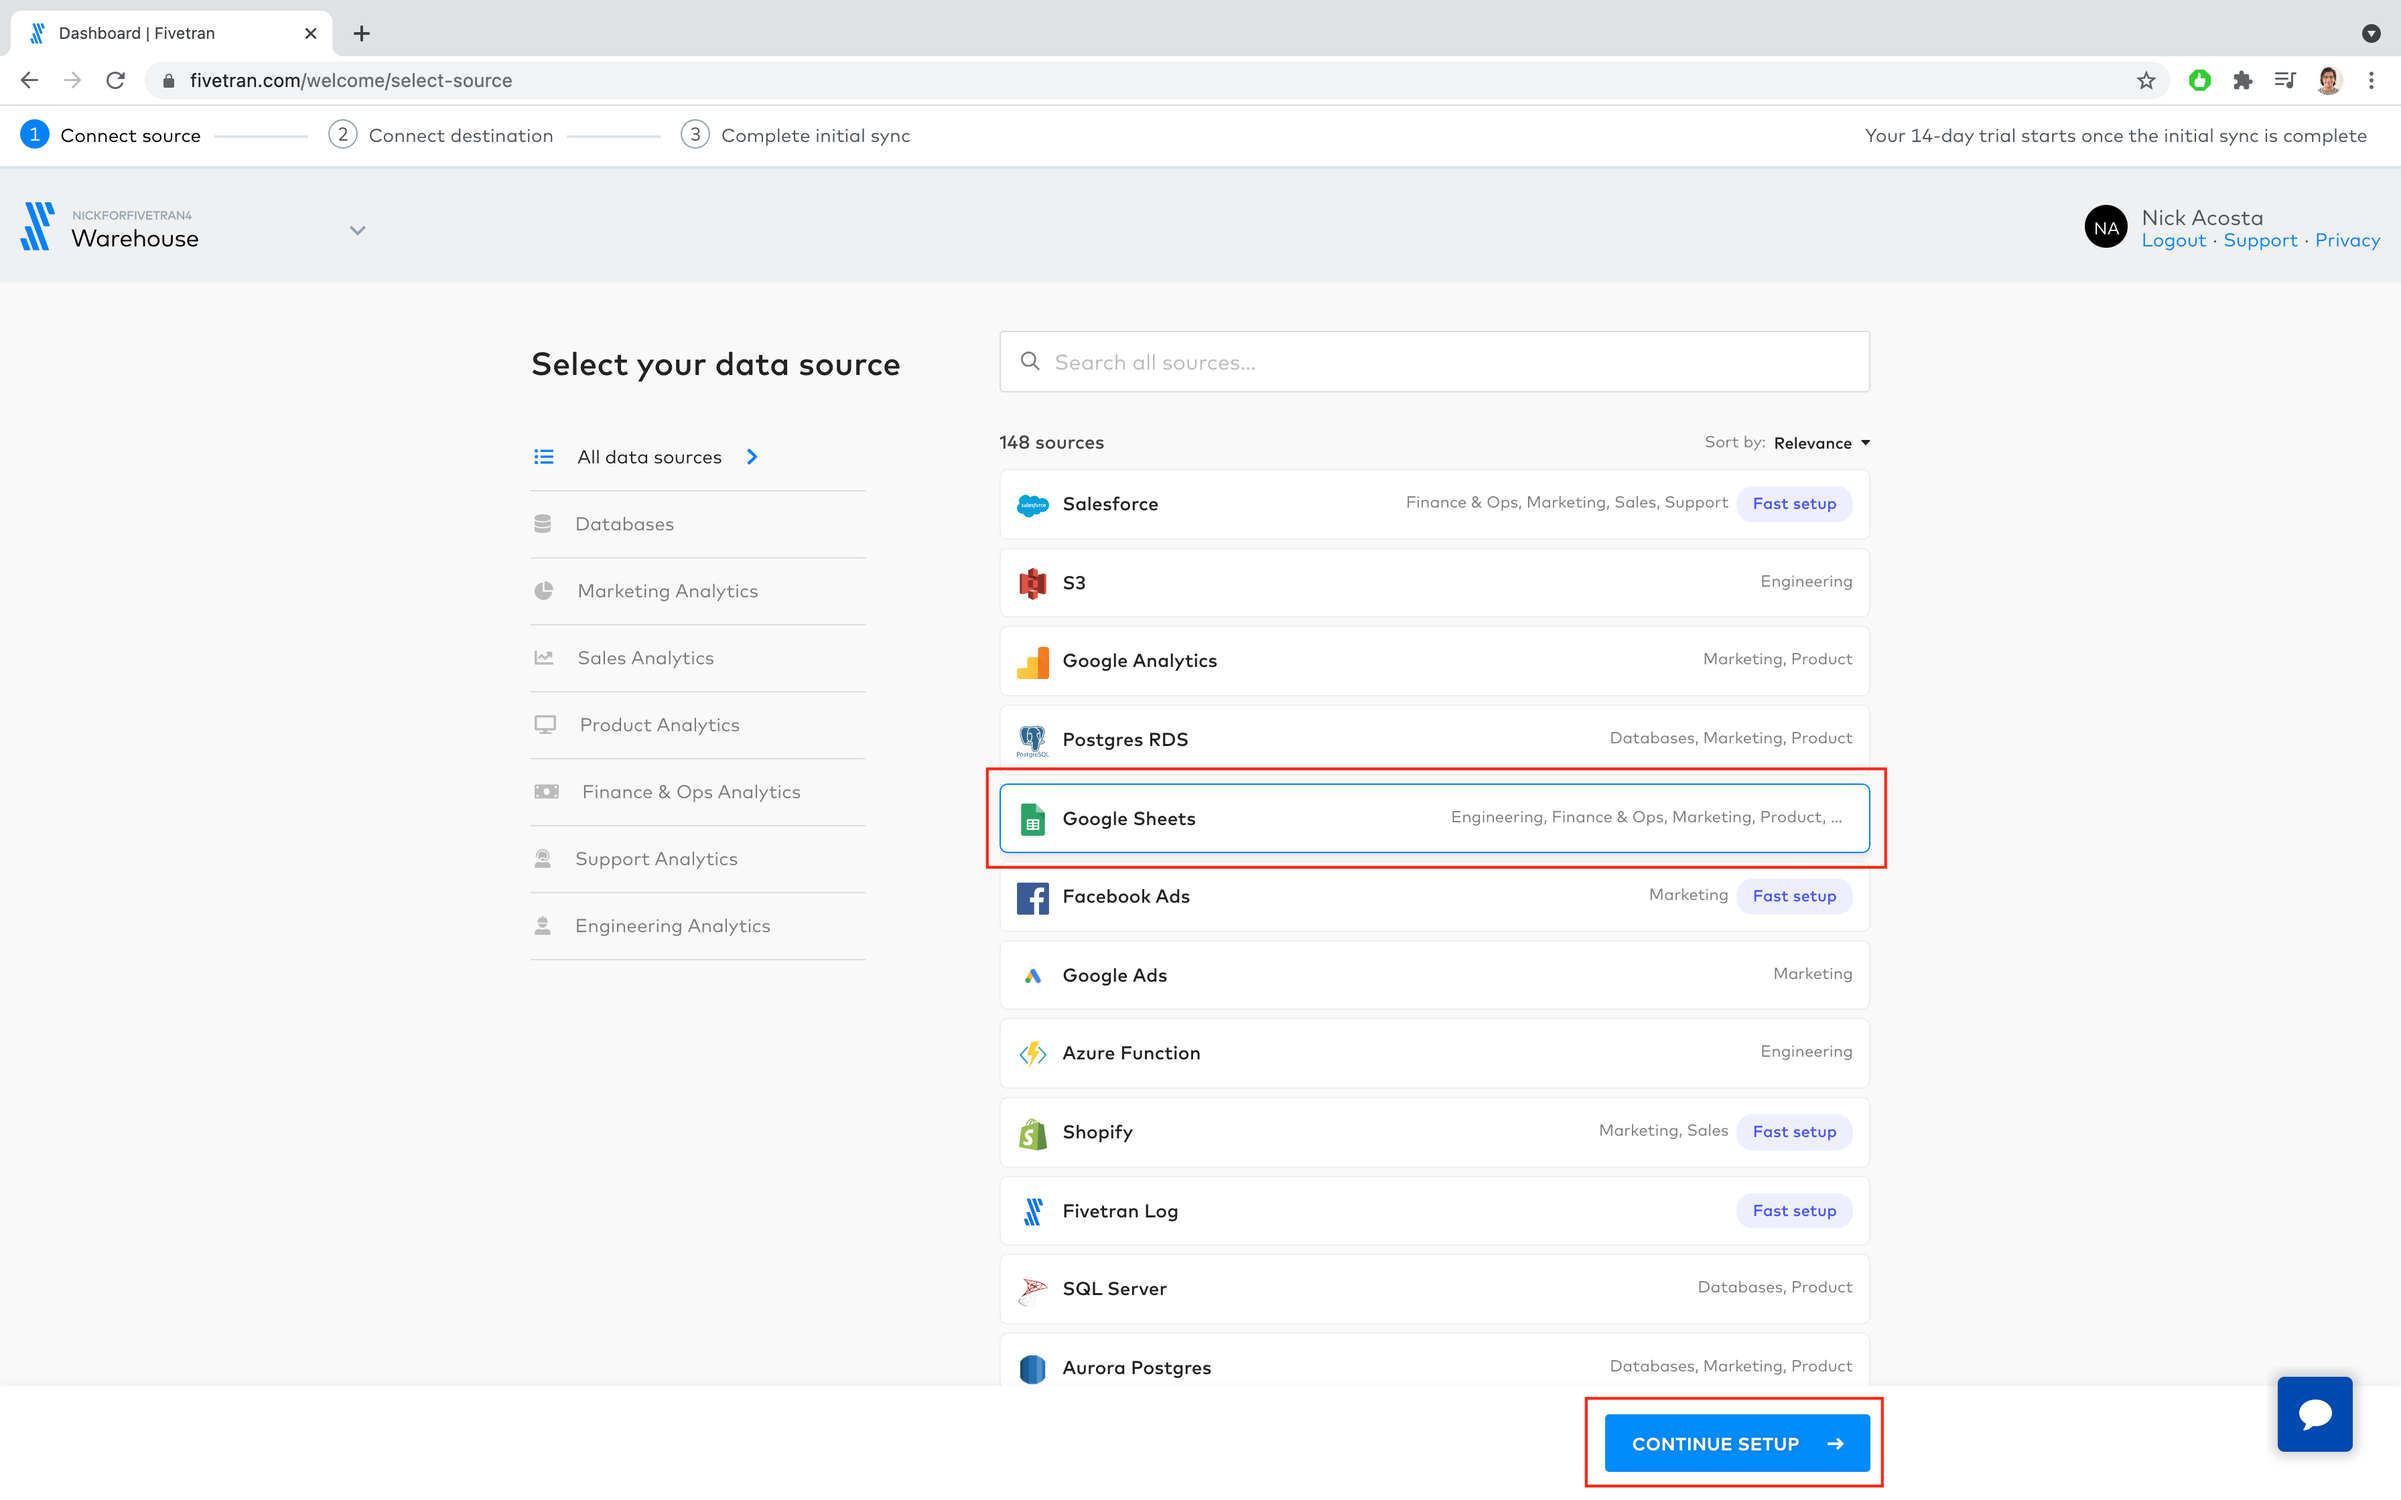
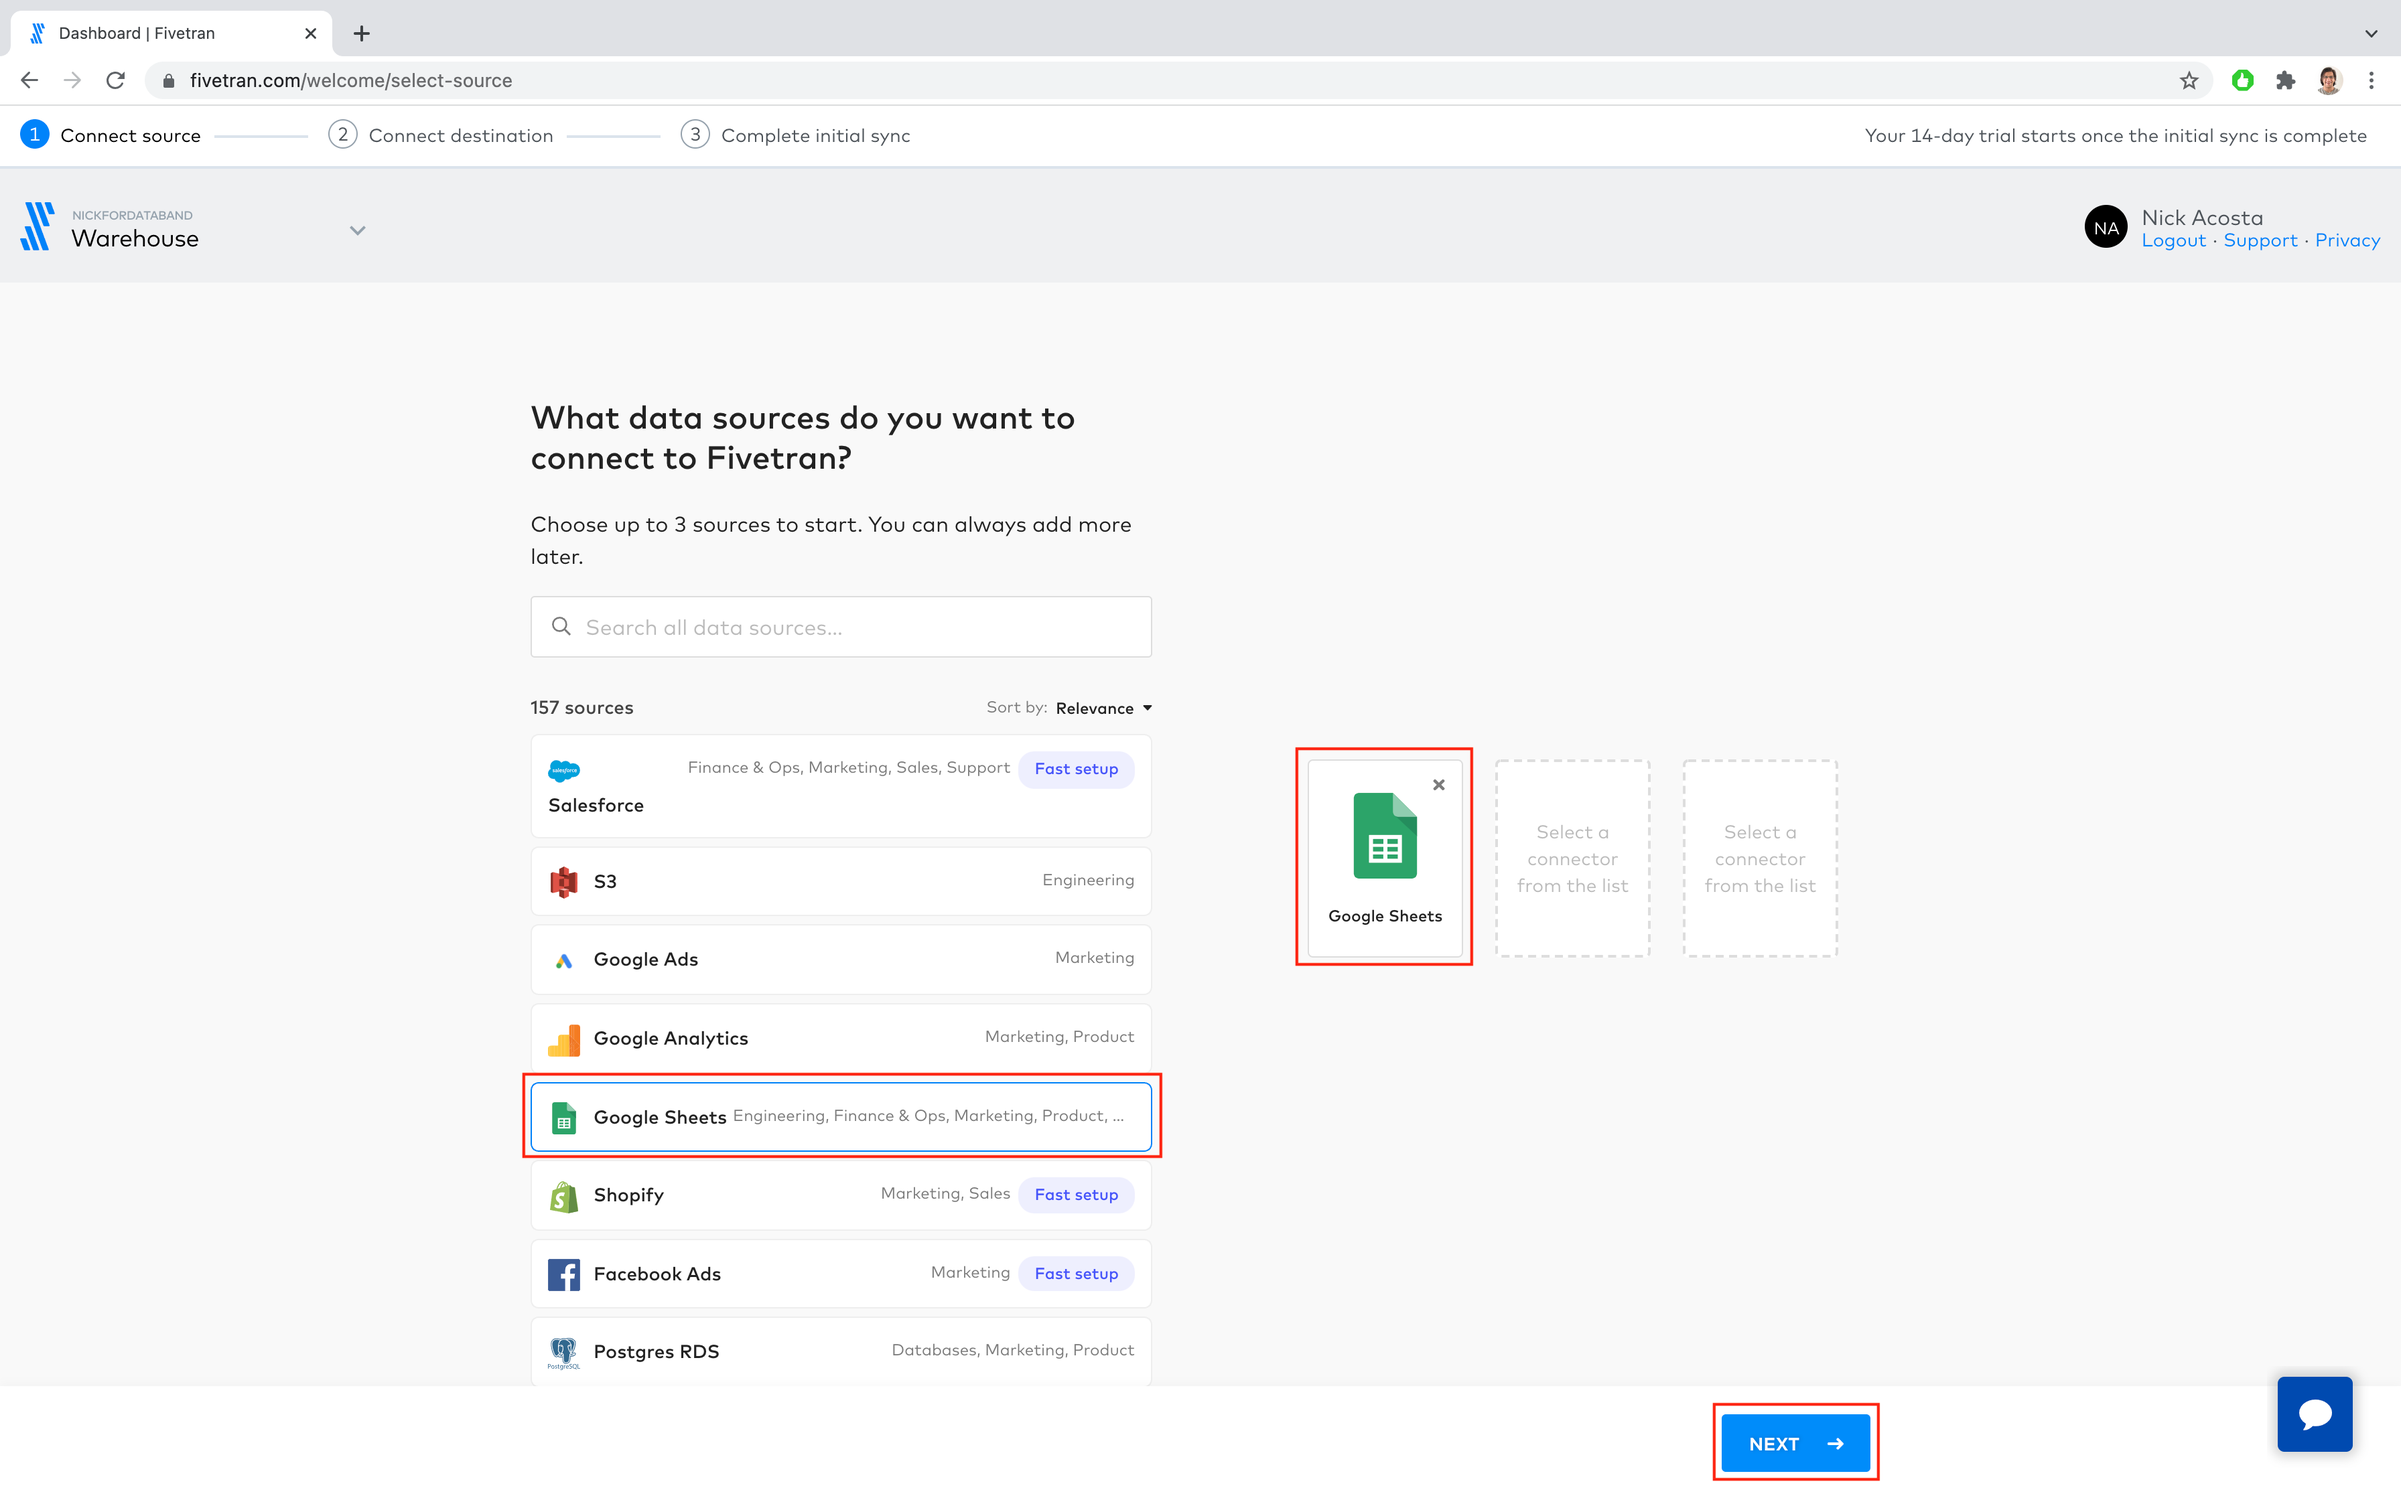
edits Fivetran section

diff --git a/guide/fivetran/README.md b/guide/fivetran/README.md
@@ -1,10 +1,10 @@
 # Fivetran
-This section guides the set up of a Fivetran trial this creates a BigQuery destination to store data that is managed by Fivetran, Fivetran then automates the movement of data into this data warehouse.
+This section of the guide set up a Fivetran trial and creates a BigQuery destination to store data that is managed by Fivetran, Fivetran then automates the movement of data into this data warehouse.
 
 
 | ![ft1.png](../../images/ft1.png) |
 |:--:|
-| [To start a Fivetran trial](fivetran.com/signup), the **E-mail** and **Company** entered cannot have been used for a trial previously. To achieve this, I created an email for this workshop and used it as the Company as well. Select *Sign up* |
+| [To start a Fivetran trial](https://fivetran.com/signup), the **E-mail** and **Company** entered cannot have been used for a trial previously. To achieve this, I created an email for this workshop and used it as the Company as well. Select *Sign up* |
 
 | ![ft2.png](../../images/ft2.png) |
 |:--:|
@@ -16,7 +16,7 @@ This section guides the set up of a Fivetran trial this creates a BigQuery desti
 
 | ![ft4.png](../../images/ft4.png) |
 |:--:|
-| Fivetran will move data from Google Sheets to a data destination, select *Google Sheets* and *CONTINUE SETUP*|
+| Fivetran will move data from Google Sheets to a data destination, select *Google Sheets* and *NEXT*|
 
 | ![ft5.png](../../images/ft5.png) |
 |:--:|
